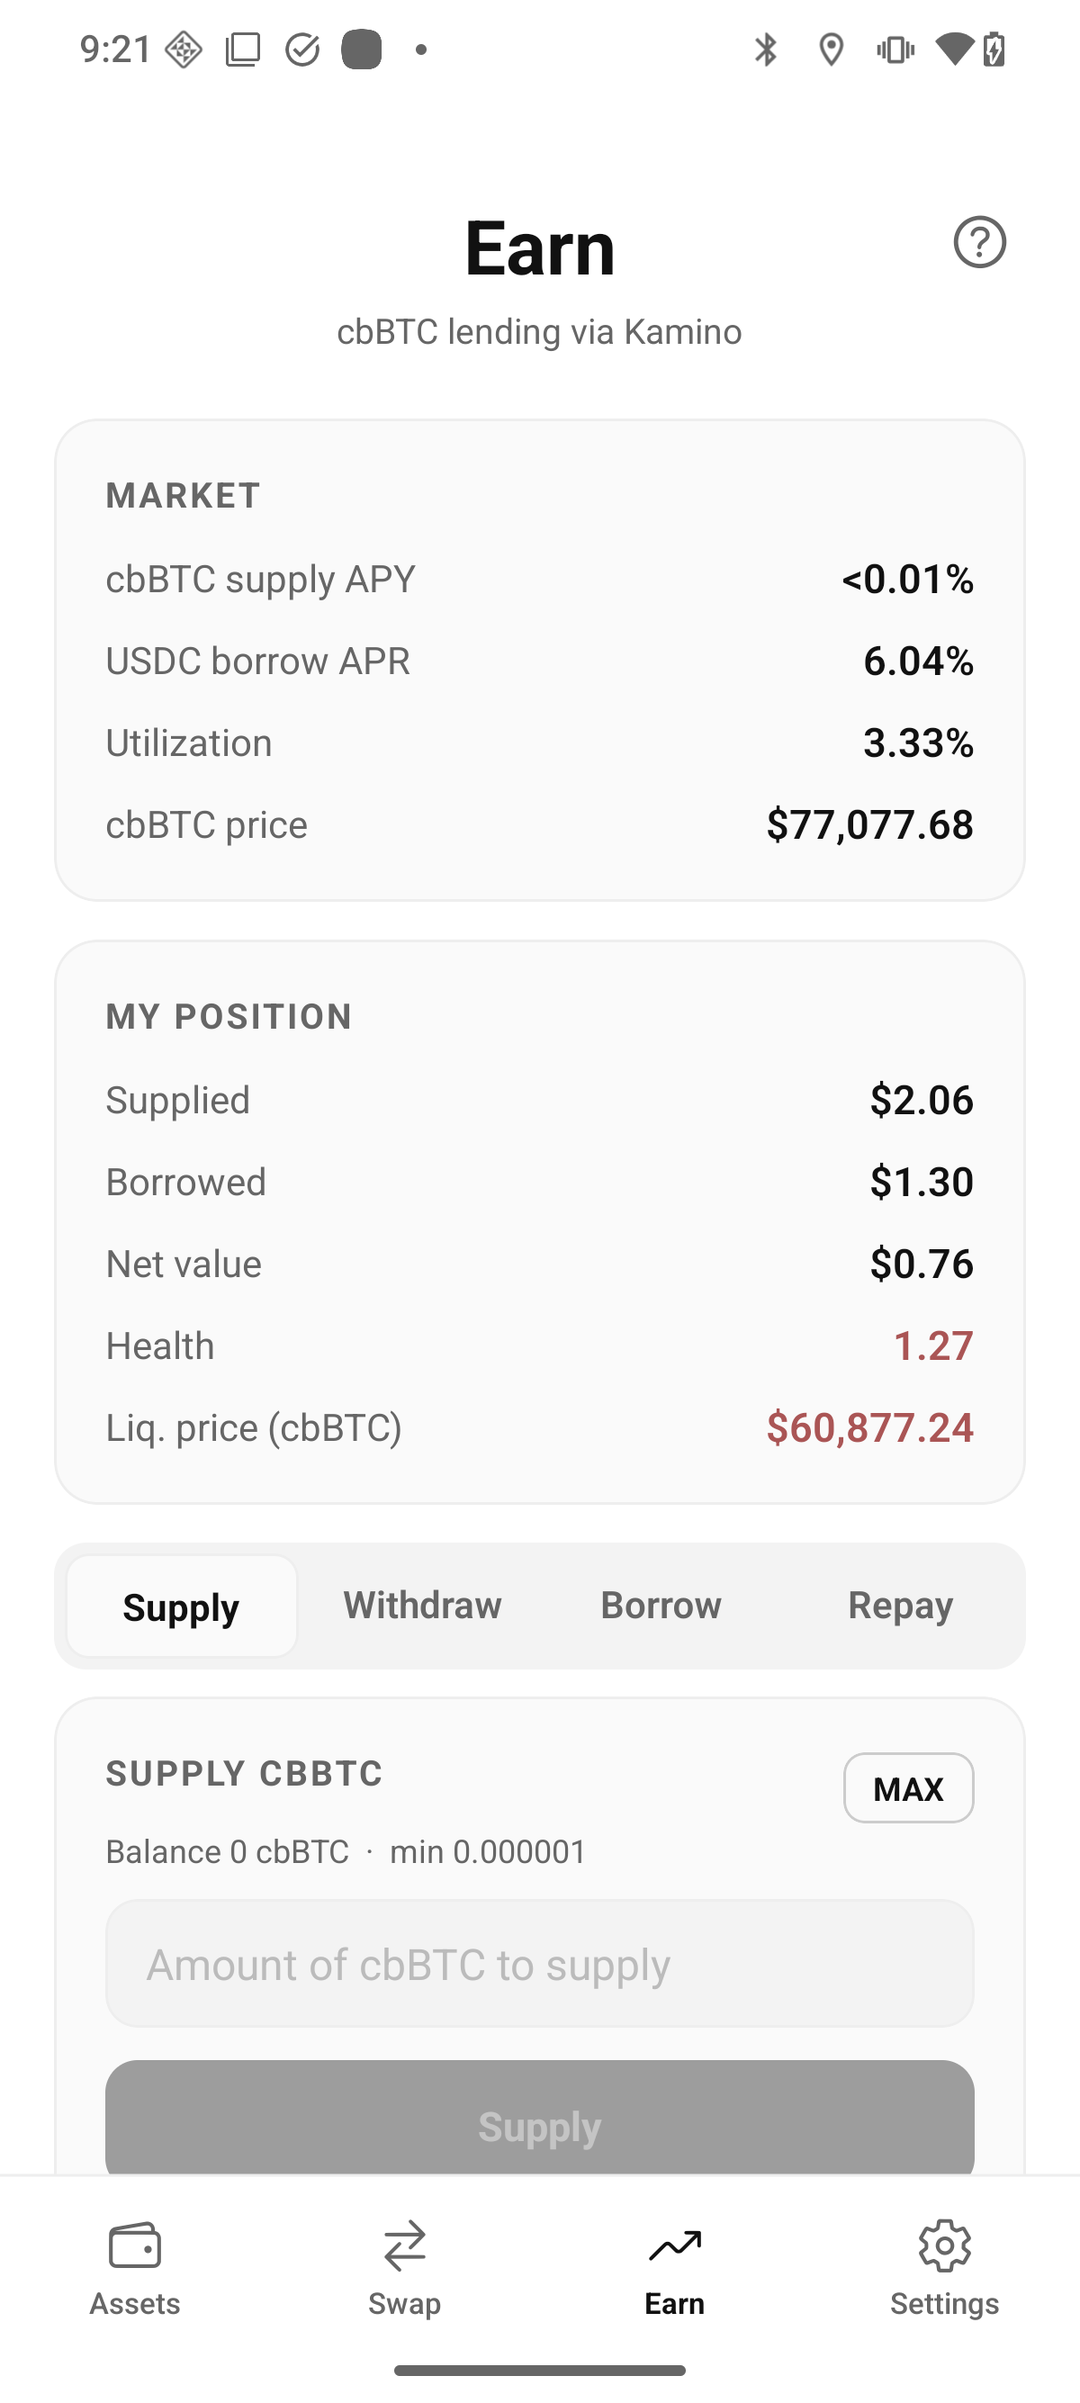
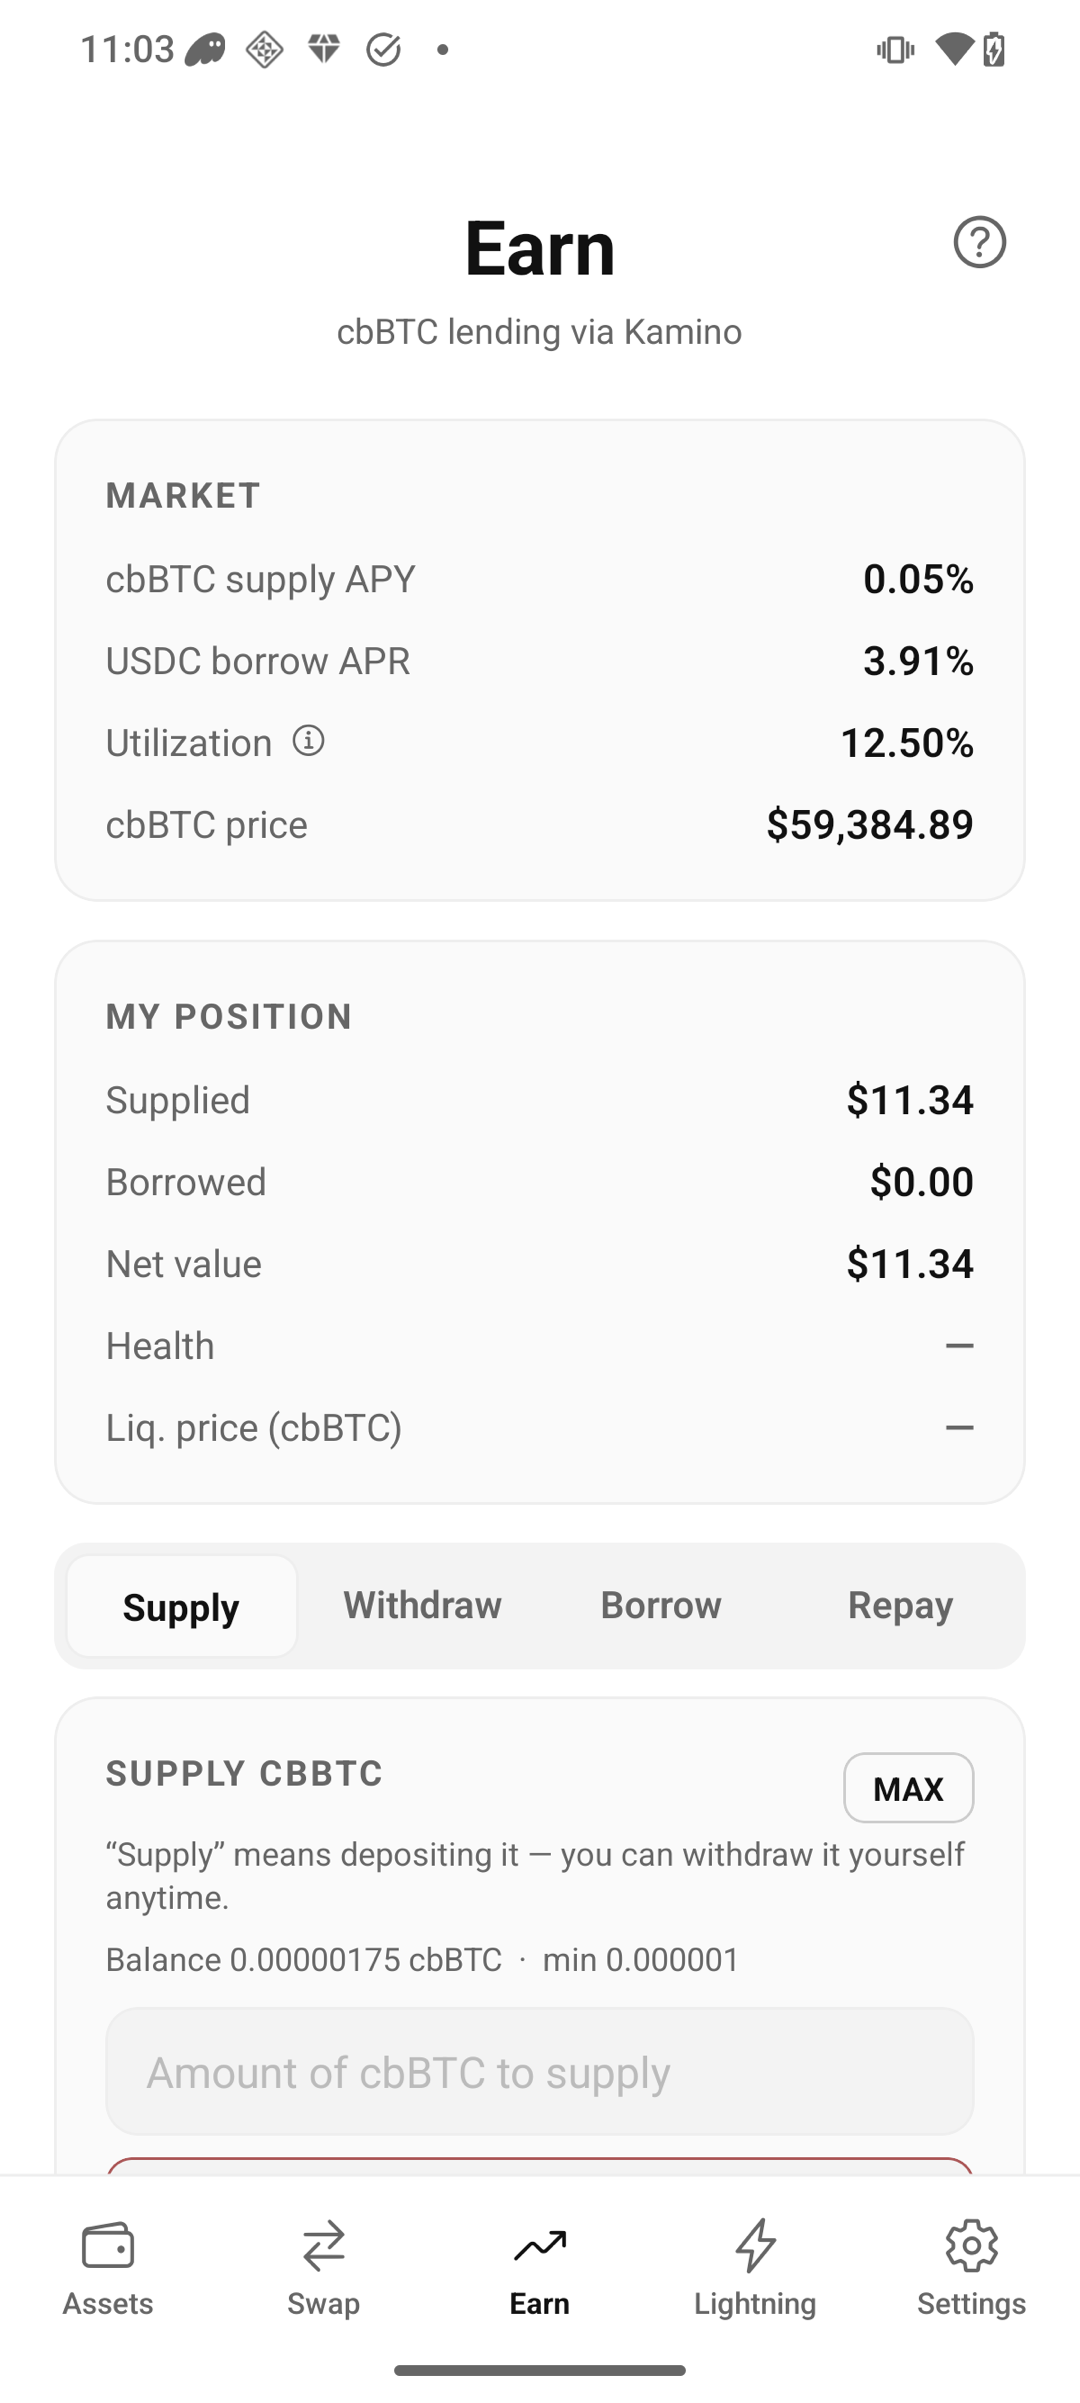
chore(store): refresh screenshots + descriptions for v0.4.4 (Bitcoin Lightning)
8 new screenshots (Home, Swap, Earn supply/borrow, Bitcoin Lightning, LN guide,
lending guide, Settings) at 1080x2403; drop the superseded guide/settings shots.
Update en/ko long descriptions: Lightning promoted from a Labs toggle to a
dedicated non-custodial 'Bitcoin Lightning' tab (USDC/SOL/cbBTC, HTLC refund,
no app fee, 100k-sat cap, proof-of-payment), plus intro/roadmap/tech-stack.

diff --git a/STORE/metadata/description.en.md b/STORE/metadata/description.en.md
@@ -30,7 +30,7 @@ Alternatives:
 ```
 Solana cbBTC is the mobile BTCfi app for Solana Seeker users.
 
-cbBTC is Coinbase's 1:1 Bitcoin-pegged token — currently the largest wrapped Bitcoin on Solana mainnet with $340M+ market cap. This app gives you the most direct, hardware-secured path to hold and swap cbBTC from your Seeker.
+cbBTC is Coinbase's 1:1 Bitcoin-pegged token — currently the largest wrapped Bitcoin on Solana mainnet with $340M+ market cap. This app gives you the most direct, hardware-secured path to swap, supply, and borrow cbBTC — and now pay and receive over Bitcoin's Lightning Network — from your Seeker.
 
 🔑 Core features
 
@@ -50,13 +50,13 @@ cbBTC is Coinbase's 1:1 Bitcoin-pegged token — currently the largest wrapped B
 • Self-custody — the app never holds your funds or keys; every transaction is signed with your Seed Vault
 • Progress visualization + guide — step-by-step progress, with how-it-works, transparency, and risk explained via infographics
 
-🧪 Labs — ⚡ Lightning payments (Phase 3 beta)
+⚡ Bitcoin Lightning (experimental) — now its own tab
 
-• Opt-in feature under Settings → Labs (off by default)
-• Pay Lightning Network invoices (Bitcoin's payment rail) directly with USDC · SOL
-• Atomiq atomic swaps (HTLC) — audited escrow, every signature stays on Solana
-• Safe on failure — funds are refunded if the LN payment doesn't complete (the LP can't claim without payment proof)
-• Zero app fee — only the LP fee (~0.5%), shown in the quote. Small amounts recommended
+• Pay and receive Bitcoin Lightning invoices with your Solana assets (USDC · SOL · cbBTC) from a dedicated tab
+• Fully non-custodial — you sign only on the Solana side; an independent liquidity provider settles the Lightning leg
+• Atomiq atomic swaps (HTLC) — audited escrow; if a payment fails, an on-chain HTLC refunds you automatically (the LP can't claim without payment proof)
+• Proof of payment — see and copy the cryptographic preimage that proves your invoice was paid
+• Zero app fee — only the LP fee (~0.5%), shown in the quote · experimental, with a small per-payment cap (100,000 sats)
 
 🛡 Security first
 
@@ -101,12 +101,12 @@ cbBTC is Coinbase's 1:1 Bitcoin-pegged token — currently the largest wrapped B
 • Phase 1: cbBTC ↔ SOL swap (Jupiter) — done ✅
 • Phase 2: cbBTC-backed lending (Kamino) — supply · withdraw · borrow · repay done ✅
 • Phase 2.5: Multi-protocol comparison (add marginfi / Solend)
-• 🧪 Phase 3: Lightning Network payments — in beta (Labs toggle; USDC · SOL as source, cbBTC next)
+• ⚡ Phase 3: Bitcoin Lightning payments — shipped as a dedicated tab (send/receive; USDC · SOL · cbBTC)
 • Phase 4: Cross-asset wrapped BTC comparison and routing (cbBTC · tBTC · BTC.b ...)
 
 📊 Tech stack
 
-React Native · Expo SDK 54 · TypeScript strict · Solana Mobile Wallet Adapter · Jupiter Swap v6 · Kamino Lend · TanStack Query
+React Native · Expo SDK 54 · TypeScript strict · Solana Mobile Wallet Adapter · Jupiter Swap v6 · Kamino Lend · Atomiq Lightning · TanStack Query
 
 🌐 Open source
 
